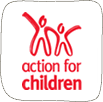
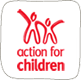
Smaller header images

diff --git a/public/stylesheets/application.css b/public/stylesheets/application.css
@@ -1,7 +1,7 @@
 body {background: black url('/images/starry-sky.jpg') repeat top left!important;color:white}
 #top {padding-top:0}
 #header {height:150px;background-image:url('/images/aslongasittakes-logo.png');background-repeat:no-repeat;background-position:top left}
-#header img.logo {margin:5px 20px 0 0;float:right}
+#header img.logo {margin:15px 0 0 20px;float:right}
 h1 {margin:20px 0 0 100px!important;vertical-align:top;font-size:40px;color:#535249}
 .sidebar {background-image:url('/images/sidebar.png');height:500px;color:#535249}
 .sidebar p {margin:10px}
